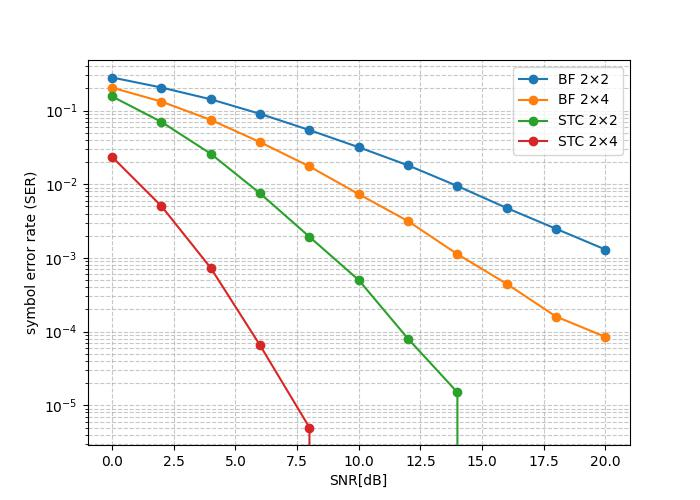
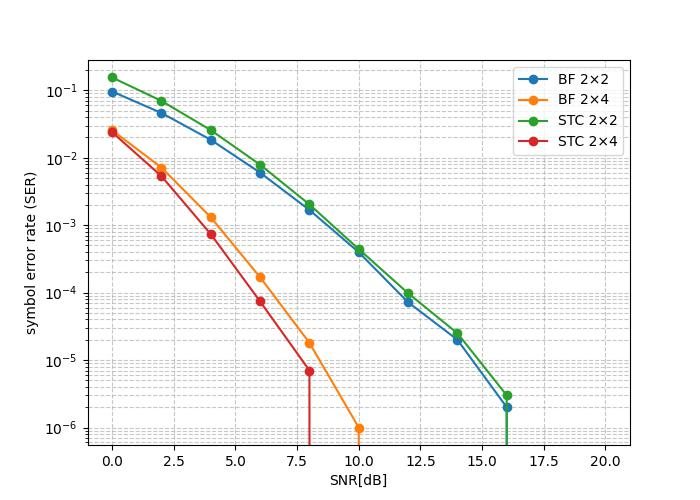
Add files via upload

diff --git a/ex3.py b/ex3.py
@@ -19,7 +19,7 @@ def qpsk_mod(bits):
     # Normalize to unit power
     return symbols / np.sqrt(2)
 
-def simulate_eigen_bf_qpsk(snr_db_values, Nrx, Ntx, num_symbols=200000):
+def simulate_eigen_bf_qpsk(snr_db_values, Nrx, Ntx, num_symbols=1000000):
     ser = []
     
     # Generate random QPSK bits and symbols (matrix form)
@@ -38,7 +38,7 @@ def simulate_eigen_bf_qpsk(snr_db_values, Nrx, Ntx, num_symbols=200000):
         
         # Received signal
         _, _, w = np.linalg.svd(H, full_matrices=False)
-        h = np.squeeze(H@np.expand_dims(w[:, 1, :], axis=2))
+        h = np.squeeze(H@np.expand_dims(w[:, 0, :].conj(), axis=2))
         r = h*np.expand_dims(s, axis=1) + n
         
         r_comb = np.sum(np.conj(h) * r, axis=1)
@@ -53,7 +53,7 @@ def simulate_eigen_bf_qpsk(snr_db_values, Nrx, Ntx, num_symbols=200000):
         
     return ser
 
-def simulate_stc_qpsk(snr_db_values, Nrx, num_symbols=200000):
+def simulate_stc_qpsk(snr_db_values, Nrx, num_symbols=1000000):
     ser = []
     T = 2 # two time slots
     Ntx = T
